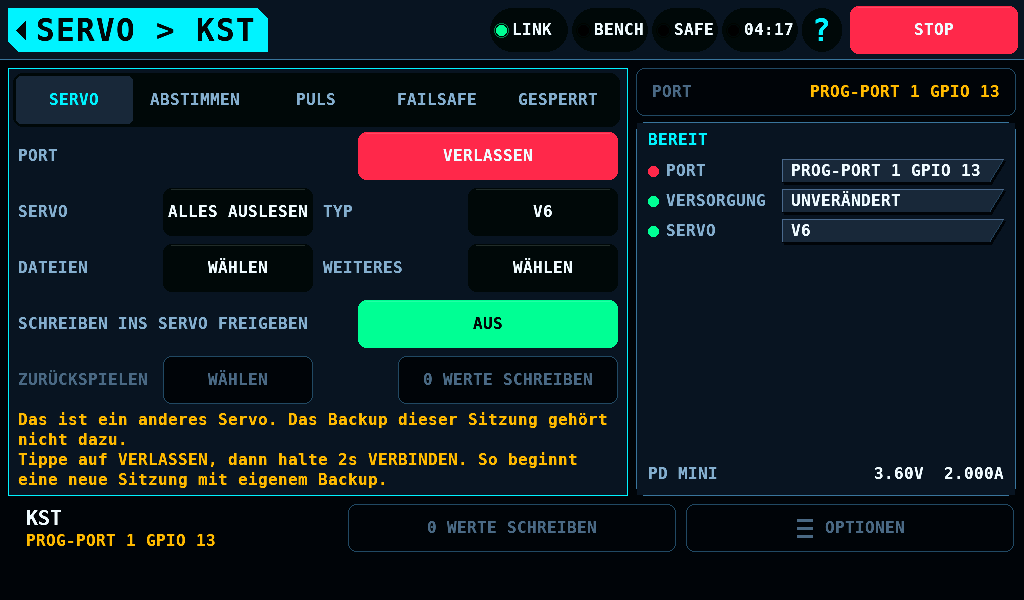
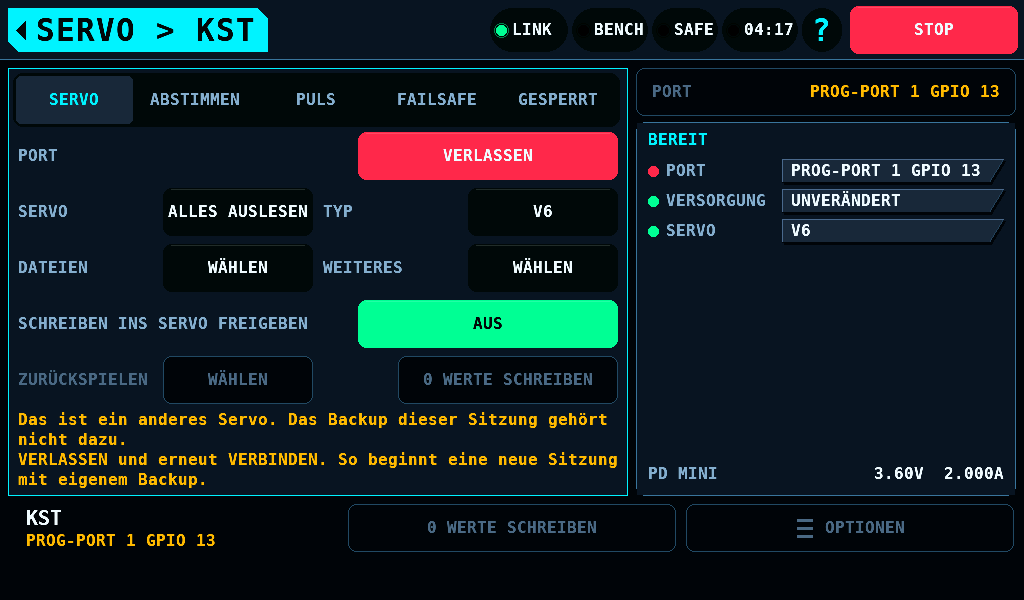
Hold CONNECT only where the session switches the servo's supply
CONNECT is a 2s hold where the session switches the servo's supply on:
the carrier's PROG 5V, a PD mini that answers, or a Hitec CLASSIC
session. For a servo the operator powers, with no PD mini, CONNECT
switches nothing on and stays a tap, so the sync keeps its 250ms after
the tap and lands about 1250ms after a power-up made 1s before. The
press decides from the condition the session's supply row uses
(kpn_switches_supply(), hpn_switches_supply()); the button fades only
under a hold.

The no-PD-mini texts say "Tap CONNECT 1s later" again; READY's SERVO
row asks for a hold or a tap by the session's supply; the session
messages name CONNECT without a gesture. Tests cover the hold with a PD
mini and on the carrier, and the tap that connects at once without one.

Changed region(s): [[0.0, 0.75, 0.625, 0.81]]

diff --git a/test/host/test_kst_panel_edit.c b/test/host/test_kst_panel_edit.c
@@ -11,6 +11,7 @@
  * - a_value_past_a_soft_limit_waits_for_a_2_s_hold
  * - the_hold_button_fills_through_its_own_revision
  * - connects_hold_fills_through_its_own_revision
+ * - connect_of_a_servo_the_operator_powers_is_a_tap
  * - stretch_is_chosen_from_the_values_the_core_takes
  * - a_switch_is_toggled_by_its_tap_and_warns_where_the_core_does
  * - a_switch_the_core_refuses_says_which_limit
@@ -202,15 +203,18 @@ TEST_CASE(the_hold_button_fills_through_its_own_revision)
     CHECK(!kst_prog_write_enabled(M));
 }
 
-/* CONNECT's hold fills its button alone: hold_revision moves, the
- * overlay's revision does not, and hold_rect names CONNECT. */
+/* With a PD mini CONNECT switches the servo's supply on: a 2s hold whose
+ * fill moves hold_revision alone, hold_rect naming CONNECT, and a tap that
+ * connects nothing. */
 TEST_CASE(connects_hold_fills_through_its_own_revision)
 {
     const gfx_rect_t c = (fresh(), val(PG_SERVO, 0, 0));
     uint32_t rev, hold_rev;
 
+    g_rig.rail = true;
     link_up();
     CHECK_EQ(kst_prog_state(M), KST_PROG_PWM);
+    CHECK(connect_holds());
     hold_rev = kst_panel_hold_revision();
     ev(cx(c), cy(c), TOUCH_EVENT_DOWN, 1);
     rev = kst_panel_revision();
@@ -222,6 +226,30 @@ TEST_CASE(connects_hold_fills_through_its_own_revision)
     CHECK(h.x == c.x && h.y == c.y && h.w == c.w && h.h == c.h);
     ev(cx(c), cy(c), TOUCH_EVENT_UP, 1);
     CHECK_EQ(kst_prog_state(M), KST_PROG_PWM);
+    tap(c);
+    CHECK_EQ(kst_prog_state(M), KST_PROG_PWM);
+    hold_connect();
+    CHECK(kst_prog_state(M) != KST_PROG_PWM);
+}
+
+/* Without a PD mini the operator powers the servo and CONNECT switches
+ * nothing on: a tap, which sends the entry at once, so the sync keeps its
+ * 250ms after the tap (KP_NOPD_ENTRY); no hold runs. */
+TEST_CASE(connect_of_a_servo_the_operator_powers_is_a_tap)
+{
+    const gfx_rect_t c = (fresh(), val(PG_SERVO, 0, 0));
+
+    link_up();
+    CHECK_EQ(kst_prog_state(M), KST_PROG_PWM);
+    CHECK(!connect_holds());
+    CHECK_STR_EQ(status(1), TR(KP_NOPD_ENTRY));
+    ev(cx(c), cy(c), TOUCH_EVENT_DOWN, 1);
+    const gfx_rect_t h = kst_panel_pages.hold_rect();
+    CHECK(h.x != c.x || h.y != c.y);
+    ev(cx(c), cy(c), TOUCH_EVENT_UP, 1);
+    CHECK(kst_prog_state(M) != KST_PROG_PWM);
+    settle();
+    CHECK_EQ(kst_prog_state(M), KST_PROG_PROGRAMMING);
 }
 
 TEST_CASE(stretch_is_chosen_from_the_values_the_core_takes)
@@ -416,6 +444,7 @@ int main(void)
     RUN(a_value_past_a_soft_limit_waits_for_a_2_s_hold);
     RUN(the_hold_button_fills_through_its_own_revision);
     RUN(connects_hold_fills_through_its_own_revision);
+    RUN(connect_of_a_servo_the_operator_powers_is_a_tap);
     RUN(stretch_is_chosen_from_the_values_the_core_takes);
     RUN(a_switch_is_toggled_by_its_tap_and_warns_where_the_core_does);
     RUN(a_switch_the_core_refuses_says_which_limit);

diff --git a/test/host/test_hitec_panel.c b/test/host/test_hitec_panel.c
@@ -5,6 +5,7 @@
  * port and its GPIO in every state; CLOSE while the port is held opening
  * LEAVE, and a hold of 2s leaving; a port another session holds offering
  * RELEASE PORT; a classic servo with no PD mini refused with its reason;
+ * CONNECT a 2s hold with a PD mini and a tap without one;
  * the supply's lock while a port is held; the restore question after a
  * LEAVE and after no other end of the hold; every control a tap target above
  * the alert band, every label and value inside its field and every note
@@ -330,6 +331,28 @@ TEST_CASE(a_classic_connect_without_a_pd_mini_is_refused_with_its_reason)
     CHECK_EQ(pstate(), HITEC_PROG_PWM);
     prun(100u);
     CHECK_EQ(g_cmds, 0u);
+}
+
+/* CONNECT switches a supply on where the session has one, a PD mini here:
+ * a 2s hold, and a tap connects nothing.  A D series servo the operator
+ * powers, with no PD mini, takes a tap that connects at once. */
+TEST_CASE(connect_holds_only_where_it_switches_a_supply_on)
+{
+    prog_session_t ps;
+
+    open_at(SUPPLY_ON, UI_LANG_EN);
+    hitec_panel_session(&ps);
+    CHECK(ps.supply != (uint8_t)PROG_SES_AS_IS);
+    tap(val(HITEC_PANEL_SERVO, 0, 0));
+    CHECK_EQ(pstate(), HITEC_PROG_PWM);
+    hold_connect();
+    CHECK(pstate() != HITEC_PROG_PWM);
+
+    open_at(SUPPLY_NONE, UI_LANG_EN);
+    hitec_panel_session(&ps);
+    CHECK_EQ(ps.supply, (uint8_t)PROG_SES_AS_IS);
+    tap(val(HITEC_PANEL_SERVO, 0, 0));
+    CHECK(pstate() != HITEC_PROG_PWM);
 }
 
 /* ------------------------------------------------------------- PORT row */
@@ -750,6 +773,7 @@ int main(void)
     RUN(connect_reads_the_d485hw_and_the_tabs_show_its_values);
     RUN(before_a_read_the_value_tabs_say_so);
     RUN(a_classic_connect_without_a_pd_mini_is_refused_with_its_reason);
+    RUN(connect_holds_only_where_it_switches_a_supply_on);
     RUN(the_port_row_names_the_port_and_its_gpio_in_every_state);
     RUN(close_while_held_opens_leave_and_a_2s_hold_leaves);
     RUN(a_classic_leave_page_says_the_supply_cycles);

diff --git a/shared/ui/kst_panel_touch.c b/shared/ui/kst_panel_touch.c
@@ -107,9 +107,11 @@ static void down(const touch_event_t *evt)
         }
         if (gfx_rect_contains(kpn_value_rect(r), x, y)) {
             if (r->kind == K_ACT && r->what == A_PORT
-                && kst_prog_state(&k.prog) == KST_PROG_PWM) {
-                /* CONNECT switches the port's supply on: a 2s hold, and
-                 * no hold from a low carrier input. */
+                && kst_prog_state(&k.prog) == KST_PROG_PWM
+                && kpn_switches_supply()) {
+                /* CONNECT that switches the port's supply on: a 2s hold,
+                 * and no hold from a low carrier input.  A servo the
+                 * operator powers takes a tap, its sync 250ms after it. */
                 if (prog5v_box_input_why() != NULL) {
                     ui_action_refused(prog5v_box_input_why());
                     return;
@@ -391,7 +393,8 @@ static void connect_tick(float dt_s)
     if (k.have && k.pressed == P_CONNECT && !k.conn.fired) {
         const row_t *r = &kpn_rows[k.row];
 
-        if (kst_prog_state(&k.prog) != KST_PROG_PWM || k.warn.open
+        if (kst_prog_state(&k.prog) != KST_PROG_PWM
+            || !kpn_switches_supply() || k.warn.open
             || kst_panel_editor() != 0 || r->page != kpn_page()
             || !kpn_row_live(r)) {
             (void)ui_hold_left(&k.conn);

diff --git a/shared/ui/hitec_panel_touch.c b/shared/ui/hitec_panel_touch.c
@@ -120,9 +120,11 @@ static void down(const touch_event_t *evt)
                 }
             }
             if (r->kind == K_ACT && r->what == A_PORT
-                && hitec_prog_state(&hp.prog) == HITEC_PROG_PWM) {
-                /* CONNECT switches the port's supply on: a 2s hold, and
-                 * no hold from a low carrier input. */
+                && hitec_prog_state(&hp.prog) == HITEC_PROG_PWM
+                && hpn_switches_supply()) {
+                /* CONNECT that switches the port's supply on: a 2s hold,
+                 * and no hold from a low carrier input.  A servo the
+                 * operator powers takes a tap. */
                 if (prog5v_box_input_why() != NULL) {
                     ui_action_refused(prog5v_box_input_why());
                     return;
@@ -440,7 +442,8 @@ static void connect_tick(float dt_s)
     if (hp.have && hp.pressed == P_CONNECT && !hp.conn.fired) {
         const hpn_row_t *r = &hpn_rows[hp.row];
 
-        if (hitec_prog_state(&hp.prog) != HITEC_PROG_PWM || hp.page.open
+        if (hitec_prog_state(&hp.prog) != HITEC_PROG_PWM
+            || !hpn_switches_supply() || hp.page.open
             || hitec_panel_editor() != 0 || r->page != hp.tabs.selected
             || !hpn_row_shown(r) || !hpn_row_live(r)) {
             (void)ui_hold_left(&hp.conn);

diff --git a/shared/ui/hitec_panel_text.c b/shared/ui/hitec_panel_text.c
@@ -926,6 +926,15 @@ int hitec_panel_message_lines(const hitec_prog_msg_t *m,
 
 /* ------------------------------------------------------------ the screen */
 
+bool hpn_switches_supply(void)
+{
+    const hitec_prog_t *p = &hp.prog;
+
+    return ui_board_prog_5v_pin() >= 0
+           || hitec_prog_series(p) == (uint8_t)HITEC_CLASSIC
+           || hitec_prog_rail(p);
+}
+
 void hitec_panel_session(prog_session_t *out)
 {
     const hitec_prog_t *p = &hp.prog;
@@ -934,15 +943,14 @@ void hitec_panel_session(prog_session_t *out)
 
     memset(out, 0, sizeof(*out));
     /* The supply the state line names before CONNECT (pwm_line()). */
-    if (ui_board_prog_5v_pin() >= 0) {
+    if (!hpn_switches_supply()) {
+        out->supply = (uint8_t)PROG_SES_AS_IS;
+    } else if (ui_board_prog_5v_pin() >= 0) {
         out->supply = (uint8_t)PROG_SES_5V;
-    } else if (hitec_prog_series(p) == (uint8_t)HITEC_CLASSIC
-               || hitec_prog_rail(p)) {
+    } else {
         out->supply = (uint8_t)PROG_SES_PD_MINI;
         out->mv = hitec_prog_mv(p);
         out->ma = hitec_prog_ma(p);
-    } else {
-        out->supply = (uint8_t)PROG_SES_AS_IS;
     }
     out->held = hitec_panel_holds_port();
     out->busy = st == HITEC_PROG_OPENING || st == HITEC_PROG_ENTERING

diff --git a/shared/ui/kst_panel_text.c b/shared/ui/kst_panel_text.c
@@ -522,6 +522,11 @@ int kst_panel_message_lines(const kst_prog_msg_t *m,
 
 /* ------------------------------------------------------------ the screen */
 
+bool kpn_switches_supply(void)
+{
+    return ui_board_prog_5v_pin() >= 0 || kpn_flag(LINK_KS_F_RAIL);
+}
+
 void kst_panel_session(prog_session_t *out)
 {
     const kst_prog_t *p = &k.prog;
@@ -530,15 +535,15 @@ void kst_panel_session(prog_session_t *out)
 
     memset(out, 0, sizeof(*out));
     /* The supply the state line names before CONNECT (kst_panel_draw.c). */
-    if (ui_board_prog_5v_pin() >= 0) {
+    if (!kpn_switches_supply()) {
+        out->supply = (uint8_t)PROG_SES_AS_IS;
+        out->by_hand = true;
+    } else if (ui_board_prog_5v_pin() >= 0) {
         out->supply = (uint8_t)PROG_SES_5V;
-    } else if (kpn_flag(LINK_KS_F_RAIL)) {
+    } else {
         out->supply = (uint8_t)PROG_SES_PD_MINI;
         out->mv = kst_prog_supply_mv(p);
         out->ma = kst_prog_supply_ma(p);
-    } else {
-        out->supply = (uint8_t)PROG_SES_AS_IS;
-        out->by_hand = true;
     }
     out->held = kst_panel_holds_port();
     out->busy = st == KST_PROG_ENTERING || st == KST_PROG_WORKING

diff --git a/test/host/kst_panel_rig.h b/test/host/kst_panel_rig.h
@@ -193,11 +193,22 @@ static inline void hold_connect(void)
     show();
 }
 
-/* PORT's button as it takes a press: CONNECT, in PWM, held 2s; LEAVE and
- * ABORT, and a button that takes nothing, tapped. */
+/* Whether CONNECT switches a supply on: the session's supply is the
+ * carrier's PROG 5V or a PD mini. */
+static inline bool connect_holds(void)
+{
+    prog_session_t ps;
+
+    kst_panel_session(&ps);
+    return ps.supply != (uint8_t)PROG_SES_AS_IS;
+}
+
+/* PORT's button as it takes a press: CONNECT, in PWM, held 2s where it
+ * switches a supply on; LEAVE, ABORT, CONNECT of a servo the operator
+ * powers, and a button that takes nothing, tapped. */
 static inline void press_port(void)
 {
-    if (kst_prog_state(M) == KST_PROG_PWM) {
+    if (kst_prog_state(M) == KST_PROG_PWM && connect_holds()) {
         hold_connect();
     } else {
         tap(val(PG_SERVO, 0, 0));

diff --git a/test/host/render_hitec.c b/test/host/render_hitec.c
@@ -109,12 +109,20 @@ static void hhold(void)
 }
 
 /**
- * @brief CONNECT, a 2s hold: held 2.1s with the bench still, and its
- *        flash.
+ * @brief CONNECT: where it switches a supply on a 2s hold, held 2.1s with
+ *        the bench still, and its flash; for a servo the operator powers a
+ *        tap.
  */
 static void hconnect_hold(void)
 {
     const gfx_rect_t r = hitec_panel_value_rect(HITEC_PANEL_SERVO, 0, 0);
+    prog_session_t ps;
+
+    hitec_panel_session(&ps);
+    if (ps.supply == (uint8_t)PROG_SES_AS_IS) {
+        htap(r);
+        return;
+    }
     touch_event_t e = { .type = TOUCH_EVENT_DOWN,
                         .point = { .id = 1,
                                    .x = (int16_t)(r.x + r.w / 2),

diff --git a/test/host/hitec_panel_rig.h b/test/host/hitec_panel_rig.h
@@ -127,11 +127,15 @@ static inline const char *said(void)
                : "";
 }
 
-/* PORT's button as it takes a press: CONNECT, in PWM, held 2s; LEAVE,
- * RELEASE and ABORT, and a button that takes nothing, tapped. */
+/* PORT's button as it takes a press: CONNECT, in PWM, held 2s where it
+ * switches a supply on; LEAVE, RELEASE, ABORT, CONNECT of a servo the
+ * operator powers, and a button that takes nothing, tapped. */
 static inline void press_port(void)
 {
-    if (pstate() == HITEC_PROG_PWM) {
+    prog_session_t ps;
+
+    hitec_panel_session(&ps);
+    if (pstate() == HITEC_PROG_PWM && ps.supply != (uint8_t)PROG_SES_AS_IS) {
         hold_connect();
     } else {
         tap(val(HITEC_PANEL_SERVO, 0, 0));

diff --git a/test/host/render_screen.c b/test/host/render_screen.c
@@ -756,10 +756,18 @@ static void khold(void)
     flash_out();
 }
 
-/* CONNECT, a 2s hold: held 2.1s, and its flash. */
+/* CONNECT: where it switches a supply on a 2s hold, held 2.1s, and its
+ * flash; for a servo the operator powers a tap. */
 static void kconnect(void)
 {
     const gfx_rect_t r = kst_panel_value_rect(0, 0, 0);
+    prog_session_t ps;
+
+    kst_panel_session(&ps);
+    if (ps.supply == (uint8_t)PROG_SES_AS_IS) {
+        ktap(r);
+        return;
+    }
     touch_event_t e = { .type = TOUCH_EVENT_DOWN,
                         .point = { .id = 1, .x = (int16_t)(r.x + r.w / 2),
                                    .y = (int16_t)(UI_BAND_H + r.y + r.h / 2),

diff --git a/shared/ui/hitec_panel_int.h b/shared/ui/hitec_panel_int.h
@@ -203,6 +203,15 @@ typedef struct {
                                      port's supply on                    */
 } hpn_state_t;
 
+/**
+ * @brief Whether the session switches the servo's supply: the carrier's
+ *        PROG 5V, a PD mini that answers, or CLASSIC, which needs one.
+ *        CONNECT is a 2s hold then, and a tap when the operator powers the
+ *        servo.
+ * @return true when CONNECT switches a supply on
+ */
+bool hpn_switches_supply(void);
+
 /** @brief The state, in hitec_panel.c; the files read it as hp. */
 extern hpn_state_t hitec_panel_h;
 /** @brief Short name for hitec_panel_h inside the overlay's files. */

diff --git a/shared/ui/kst_panel_int.h b/shared/ui/kst_panel_int.h
@@ -296,6 +296,13 @@ bool kpn_flag(uint16_t f);
  * @return true when the port is in programming
  */
 bool kpn_programming(void);
+/**
+ * @brief Whether the session switches the servo's supply: the carrier's
+ *        PROG 5V, or a PD mini that answers (LINK_KS_F_RAIL).  CONNECT is
+ *        a 2s hold then, and a tap when the operator powers the servo.
+ * @return true when CONNECT switches a supply on
+ */
+bool kpn_switches_supply(void);
 /** @brief A row's label: its text, or for PORT what it holds now.
  * @param r the row
  * @return the label
